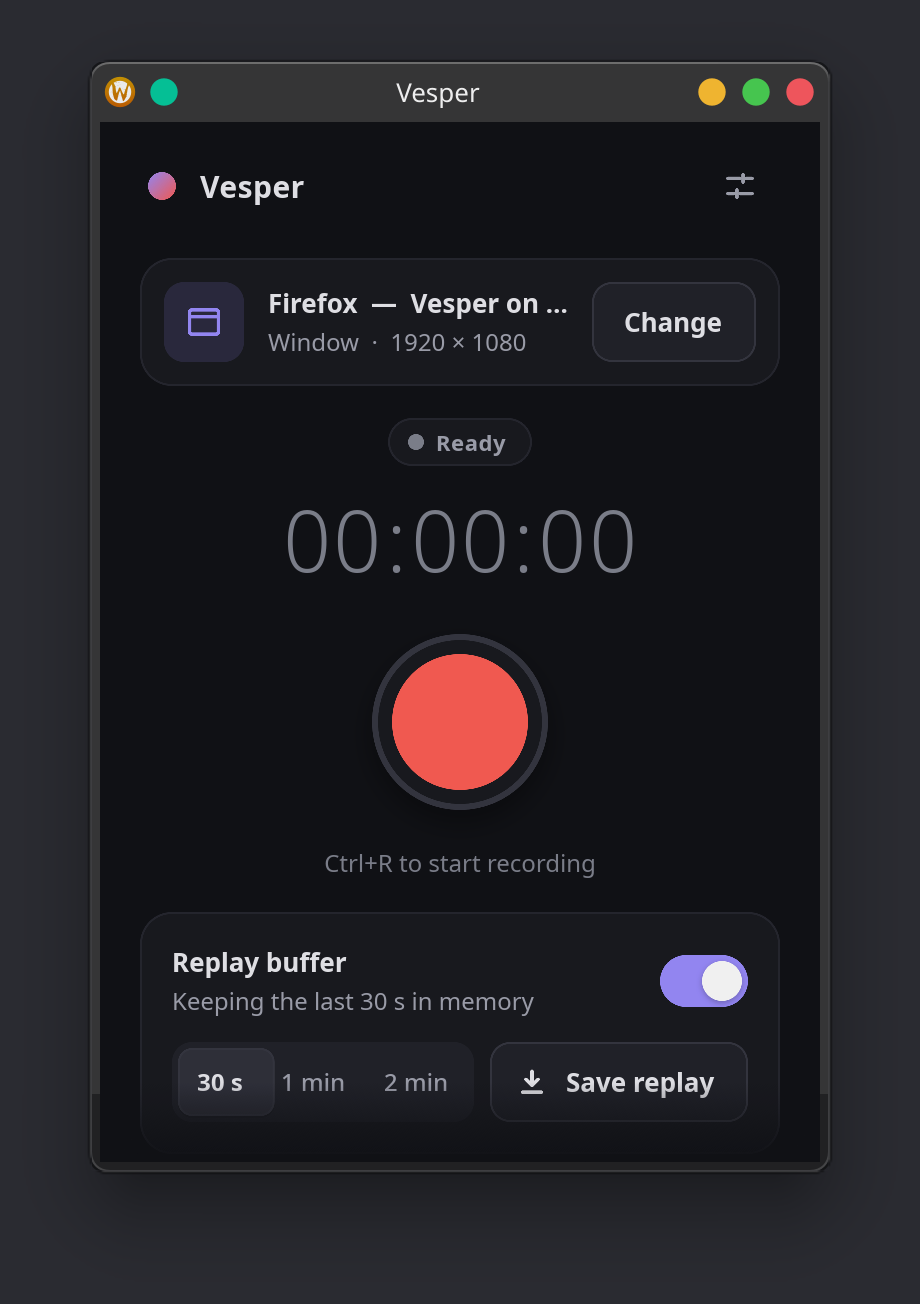
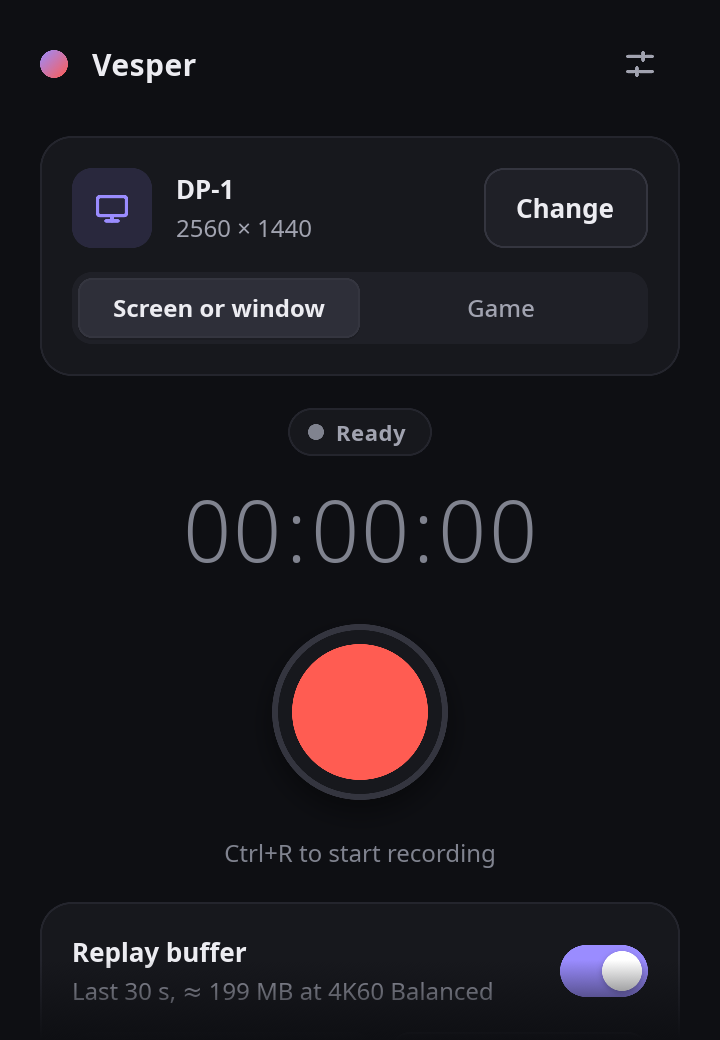
fix(ui): even spacing, centered segmented labels, clear layer state
- Segmented: equal-width cells; each label is centered in the cell under
  the thumb (labels were off by up to 18 px with unequal label lengths).
- Cards share one inner padding (card-padding, 16 px): the source and
  consent cards used 12 px, so content edges did not line up.
- Audio card: mute glyphs line up with the AUDIO label (were 12.5 px to
  the right), meters end on the card content edge, top inset matches
  the replay card.
- Header mark and status line sit on the cards' outer edges.
- Drawer group spacing on the scale (22 -> 24 px); new layout tokens.
- Disabled switch is dimmed like other disabled controls.
- Game mode without the Vulkan layer: the source card offers "Set up",
  which opens the settings on the layer switch; a missing layer says
  how to get it instead of "Layer not found next to Vesper".
- dev: VESPER_SNAPSHOT saves the window itself (no screen capture), plus
  look-only demo steps for screenshots.

diff --git a/crates/vesper-app/src/dev.rs b/crates/vesper-app/src/dev.rs
@@ -5,6 +5,11 @@
 //!   for `,`). `recording-look` fakes the recording state (no capture).
 //!   `saved` shows the saved-file notice and `notify` sends the desktop
 //!   notification, both for `VESPER_DEMO_FILE`.
+//!   Looks without a capture or a game, for screenshots: `screen-look`,
+//!   `game-look`, `consent-look`, `starting-look`, `stopping-look`, `layer-installed`, `layer-missing`,
+//!   `replay-on`, `replay-off`; `scroll-end` scrolls the settings to the end.
+//! - `VESPER_SNAPSHOT=<file.ppm>` saves the window as a PPM image once the
+//!   demo settled, then quits. Nothing outside the window is captured.
 //! - `VESPER_DEMO_DELAY=<ms>` runs `VESPER_DEMO` that long after launch
 //!   (default 300), e.g. once a game asks for consent (`allow`, `ignore`).
 //! - `vesper --record <seconds>` records without the UI, from the saved
@@ -133,6 +138,9 @@ pub fn apply(ui: &AppWindow) {
     slint::Timer::single_shot(Duration::from_millis(delay), move || {
         let Some(ui) = weak.upgrade() else { return };
         for step in demo.split(',') {
+            if look(&ui, step.trim()) {
+                continue;
+            }
             match step.trim() {
                 "source" => ui.invoke_pick_source(),
                 "recording" => ui.invoke_start_recording(),
@@ -141,19 +149,28 @@ pub fn apply(ui: &AppWindow) {
                 "allow" => ui.invoke_allow_game(),
                 "ignore" => ui.invoke_ignore_game(),
                 "browse" => ui.invoke_pick_output_folder(),
-                // The recording look without a capture, for screenshots.
-                "recording-look" => {
-                    ui.set_rec_state(crate::RecState::Recording);
-                    ui.set_elapsed_seconds(83);
-                    ui.set_measured_fps(59.9);
-                    ui.set_resolution("3840×2160".into());
-                }
                 "saved" => crate::show_notice(&ui, "Replay saved", Some(demo_file())),
                 "notify" => crate::desktop::notify(
                     "Replay saved".into(),
                     demo_file().display().to_string(),
                     Some(demo_file()),
                 ),
+                "scroll-end" => {
+                    let weak = ui.as_weak();
+                    slint::Timer::single_shot(Duration::from_millis(400), move || {
+                        let Some(ui) = weak.upgrade() else { return };
+                        let size = ui.window().size().to_logical(ui.window().scale_factor());
+                        let position =
+                            slint::LogicalPosition::new(size.width - 40.0, size.height / 2.0);
+                        let window = ui.window();
+                        window.dispatch_event(WindowEvent::PointerMoved { position });
+                        window.dispatch_event(WindowEvent::PointerScrolled {
+                            position,
+                            delta_x: 0.0,
+                            delta_y: -5000.0,
+                        });
+                    });
+                }
                 "muted" => {
                     ui.set_mic_muted(true);
                     ui.invoke_mic_mute_changed(true);
@@ -168,6 +185,77 @@ pub fn apply(ui: &AppWindow) {
             }
         }
     });
+    if let Ok(path) = std::env::var("VESPER_SNAPSHOT") {
+        let weak = ui.as_weak();
+        slint::Timer::single_shot(Duration::from_millis(delay + 1200), move || {
+            let Some(ui) = weak.upgrade() else { return };
+            // Again: the games tick may have reset a game look meanwhile.
+            let demo = std::env::var("VESPER_DEMO").unwrap_or_default();
+            for step in demo.split(',') {
+                look(&ui, step.trim());
+            }
+            match ui.window().take_snapshot() {
+                Ok(image) => {
+                    let mut ppm =
+                        format!("P6\n{} {}\n255\n", image.width(), image.height()).into_bytes();
+                    ppm.extend(image.as_slice().iter().flat_map(|p| [p.r, p.g, p.b]));
+                    if let Err(e) = std::fs::write(&path, ppm) {
+                        log!("VESPER_SNAPSHOT: {e}");
+                    }
+                }
+                Err(e) => log!("VESPER_SNAPSHOT: {e}"),
+            }
+            drop(slint::quit_event_loop());
+        });
+    }
+}
+
+/// Applies a look step: UI state only, no capture. False for other steps.
+fn look(ui: &AppWindow, step: &str) -> bool {
+    match step {
+        // The recording look without a capture, for screenshots.
+        "recording-look" => {
+            ui.set_rec_state(crate::RecState::Recording);
+            ui.set_elapsed_seconds(83);
+            ui.set_measured_fps(59.9);
+            ui.set_resolution("3840×2160".into());
+        }
+        "screen-look" => {
+            ui.set_source_kind(crate::SourceKind::Screen);
+            ui.set_source_name("DP-1".into());
+            ui.set_source_detail("2560 × 1440".into());
+        }
+        "game-look" => {
+            ui.set_source_kind(crate::SourceKind::Game);
+            ui.set_game_layer_installed(true);
+            ui.set_source_name("eldenring.exe".into());
+            ui.set_source_detail("3840 × 2160".into());
+            let others = [crate::GameEntry {
+                name: "factorio".into(),
+                pid: 4242,
+            }];
+            ui.set_other_games(std::rc::Rc::new(slint::VecModel::from(others.to_vec())).into());
+        }
+        "consent-look" => {
+            ui.set_game_layer_installed(true);
+            ui.set_pending_game("eldenring.exe".into());
+        }
+        "layer-installed" => ui.set_game_layer_installed(true),
+        "layer-missing" => {
+            ui.set_game_layer_installed(false);
+            ui.set_game_layer_available(false);
+        }
+        "starting-look" => ui.set_rec_state(crate::RecState::Starting),
+        "stopping-look" => {
+            ui.set_measured_fps(59.9);
+            ui.set_rec_state(crate::RecState::Stopping);
+            ui.set_elapsed_seconds(83);
+        }
+        "replay-on" => ui.set_replay_enabled(true),
+        "replay-off" => ui.set_replay_enabled(false),
+        _ => return false,
+    }
+    true
 }
 
 fn demo_file() -> PathBuf {
